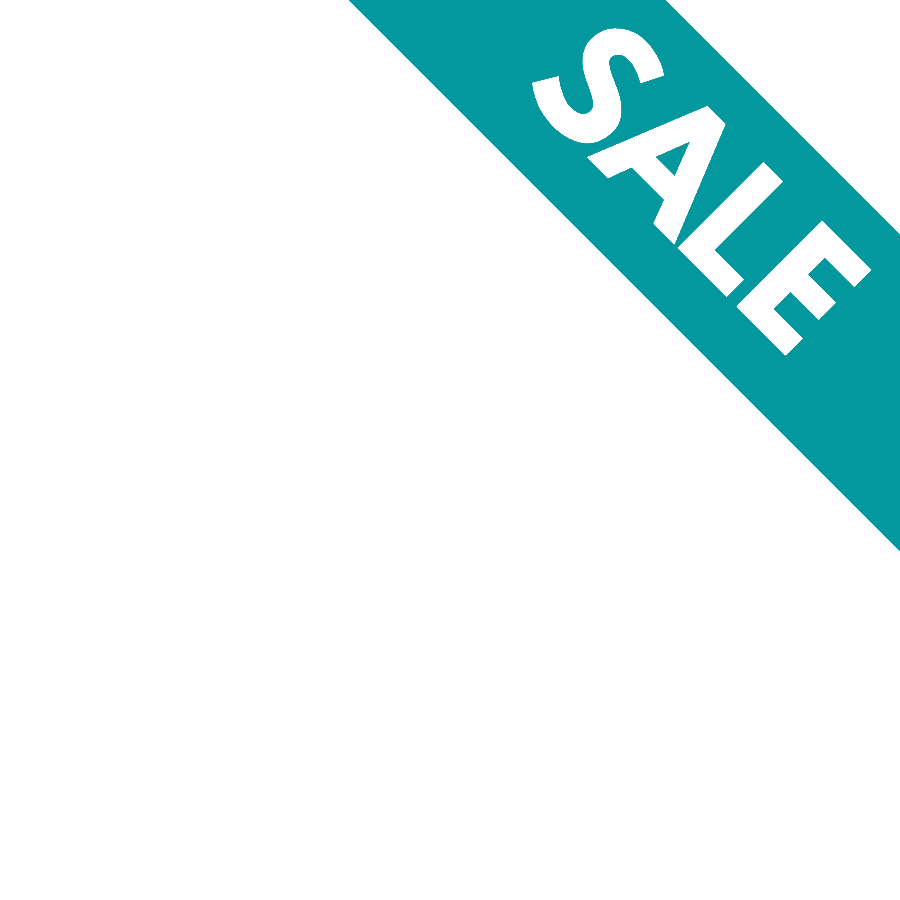
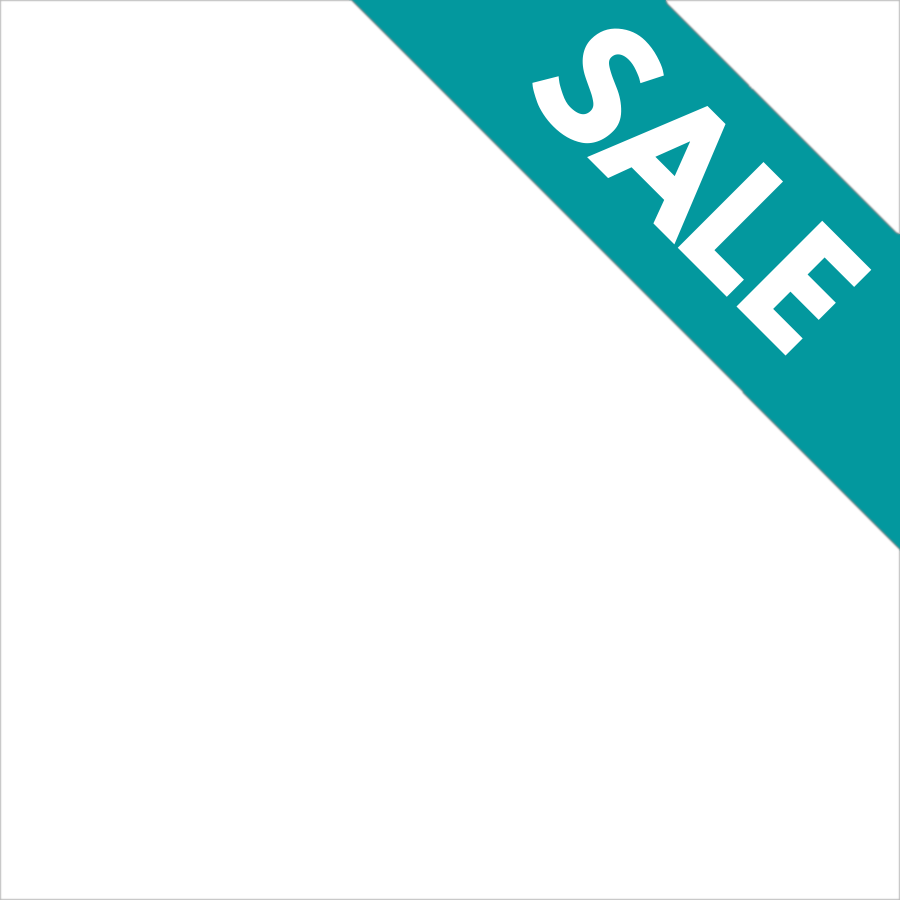
tried my best

Changed region(s): [[0.0, 0.5911, 1.0, 1.0], [0.9956, 0.0, 1.0, 0.28], [0.7467, 0.0, 0.7778, 0.0311]]

diff --git a/vue/src/components/ProductDetails.vue b/vue/src/components/ProductDetails.vue
@@ -2,6 +2,7 @@
   <div class="details-main">
     <br />
     <div class="image-container">
+      <img id="salebanner" v-if="currentProduct.sale" src="/salebanner.png">
       <img
         class="thumbnail"
         v-if="currentProduct.image"
@@ -17,15 +18,17 @@
     
       <h2 id="title">{{ currentProduct.title }}</h2>
       <div id="price" class="price" v-if="!currentProduct.sale">
+        <div class=cart-button>Add to Cart</div>
         ${{ currentProduct.price.toFixed(2) }}
       </div>
       <div id="price" v-else class="sale-price">
         <span class="discounted-price">
+          <div class="cart-button">Add to Cart</div>
           ${{ currentProduct.discountedPrice.toFixed(2) }}
         </span> &nbsp;
         <span class="before-sale-price"><s>
             ${{ currentProduct.price.toFixed(2) }}</s>
-          </span>
+          </span>&nbsp;&nbsp;
       </div>
       <div class="product-weight">{{ currentProduct.weight }}</div>
       <br />
@@ -58,6 +61,17 @@ export default {
 </script>
 
 <style>
+.cart-button {
+  display: inline-block;
+  background-color: #03989e;
+  color: white;
+  border-radius: 4px;
+  border: 1px solid black;
+  padding: 3px 8px 3px 8px;
+  margin: 5px;
+  font-weight: bold;
+}
+
 .details-main {
   display: grid;
   grid-template-columns: 200px 1fr;
@@ -80,13 +94,22 @@ export default {
 }
 .image-container {
   grid-area: image;
+  position: relative;
+}
+
+#salebanner {
+  position: absolute;
+  width: 160px;
+  height: 160px;
+  display: block;
+  margin: 10px 20px 10px 20px;
 }
 
 .thumbnail {
   display: flex;
   align-items: center;
   justify-items: center;
-  margin: auto;
+  margin: 10px auto 10px auto;
   padding: 0px 0px 0px 0px;
 }
 
@@ -101,19 +124,15 @@ export default {
   grid-area: weight;
 }
 
-.container {
-  display: flex;
-  align-items: center;
-}
-
 .cert {
   grid-area: cert;
+  margin-top: 15px;
 }
 
 .cert-icon {
   display: inline-block;
   background-color: lightgray;
-  border-radius: 28px;
+  border-radius: 15px;
   border: 1px solid;
   padding: 3px 8px 3px 8px;
   margin: 5px;

diff --git a/vue/src/components/HomePage.vue b/vue/src/components/HomePage.vue
@@ -5,7 +5,7 @@
         <a v-bind:href="'/byCategory/'+prodCat.categoryId">{{prodCat.categoryName}}  <span class = "view-all">View All</span></a>
       </h1>
     <div class ="main">
-      <div class="container" v-for="prod in prodCat.productsList.slice(0,3)" v-bind:key="prod.id">
+      <div class="container" v-for="prod in prodCat.productsList.slice(0,4)" v-bind:key="prod.id">
         <a v-bind:href="'/product-details/' + prod.id">
           <img
             class="thumbnail"
@@ -18,13 +18,14 @@
             v-else
             src="https://grocerymonk.com/image_placeholder.png"
           />
+          <div id="details">
           <div class="product-title">{{ prod.title }}</div>
           <div class="price" v-if="prod.sale != true">
             ${{ prod.price.toFixed(2) }}</div>
           <div class="sale-price" v-else>
           <span class="discounted-price">${{(0.9*prod.price).toFixed(2)}}</span> &nbsp;
            <span class="before-sale-price"><s>${{prod.price.toFixed(2)}}</s></span></div>
-        <div class = "product-weight">{{ prod.weight }}</div>
+        <div class = "product-weight">{{ prod.weight }}</div></div>
         </a>
       </div>
     </div>
@@ -93,20 +94,20 @@ export default {
 <style>
 .main {
   display: flex;
-  justify-content: space-evenly;
+  justify-content: space-between;
   flex-wrap: wrap;
-  background-color: #d3d3d3;
+  background-color: lightgray;
 }
 
 .container {
+  display: flex;
+  align-content: space-evenly;
   background-color: white;
   border-radius: 10px;
   width: 250px;
-  height: 270px;
-  gap: 1rem;
+  height: 200px;
+  gap: .5rem;
   margin: 1rem;
-  text-align: center;
-  vertical-align: middle;
 }
 body {
   font-family: sans-serif;
@@ -124,10 +125,10 @@ body {
   margin: 50px;
   width: 200px;
   height: 200px;
-  padding-left: 20px;
 }
 
 .view-all {
   font-size: 12px;
 }
+
 </style>

diff --git a/vue/src/components/ProductList.vue b/vue/src/components/ProductList.vue
@@ -110,7 +110,7 @@ export default {
 <style>
 .main {
   display: flex;
-  justify-content: space-evenly;
+  justify-content: space-between;
   flex-wrap: wrap;
   background-color: #f9fafb;
 }
@@ -119,7 +119,7 @@ export default {
   background-color:white;
   border-radius: 1em;
   width: 15em;
-  height: 25em;
+  height: 22em;
   gap: 10em;
   margin: 1rem;
   text-align: center;

diff --git a/vue/src/components/ProductCard.vue b/vue/src/components/ProductCard.vue
@@ -74,11 +74,10 @@ export default {
   background-color: white;
   border-radius: 10px;
   width: 250px;
-  height: 270px;
+  height: 200px;
   gap: 1rem;
   margin: 1rem;
-  text-align: center;
-  vertical-align: middle;
+
 }
 .product-title {
   font-size: 1.5rem;

diff --git a/vue/src/components/Category.vue b/vue/src/components/Category.vue
@@ -180,9 +180,9 @@ export default {
 <style>
 .main {
   display: flex;
-  justify-content: space-evenly;
+  justify-content: center;
   flex-wrap: wrap;
-  background-color: #f9fafb;
+  background-color: lightgray;
 }
 
 .category-title {

diff --git a/vue/src/views/AllProducts.vue b/vue/src/views/AllProducts.vue
@@ -60,7 +60,4 @@ export default {
   margin-bottom: 40px;
 }
 
-.thumbnail {
-  max-width: 200px;
-}
 </style>
